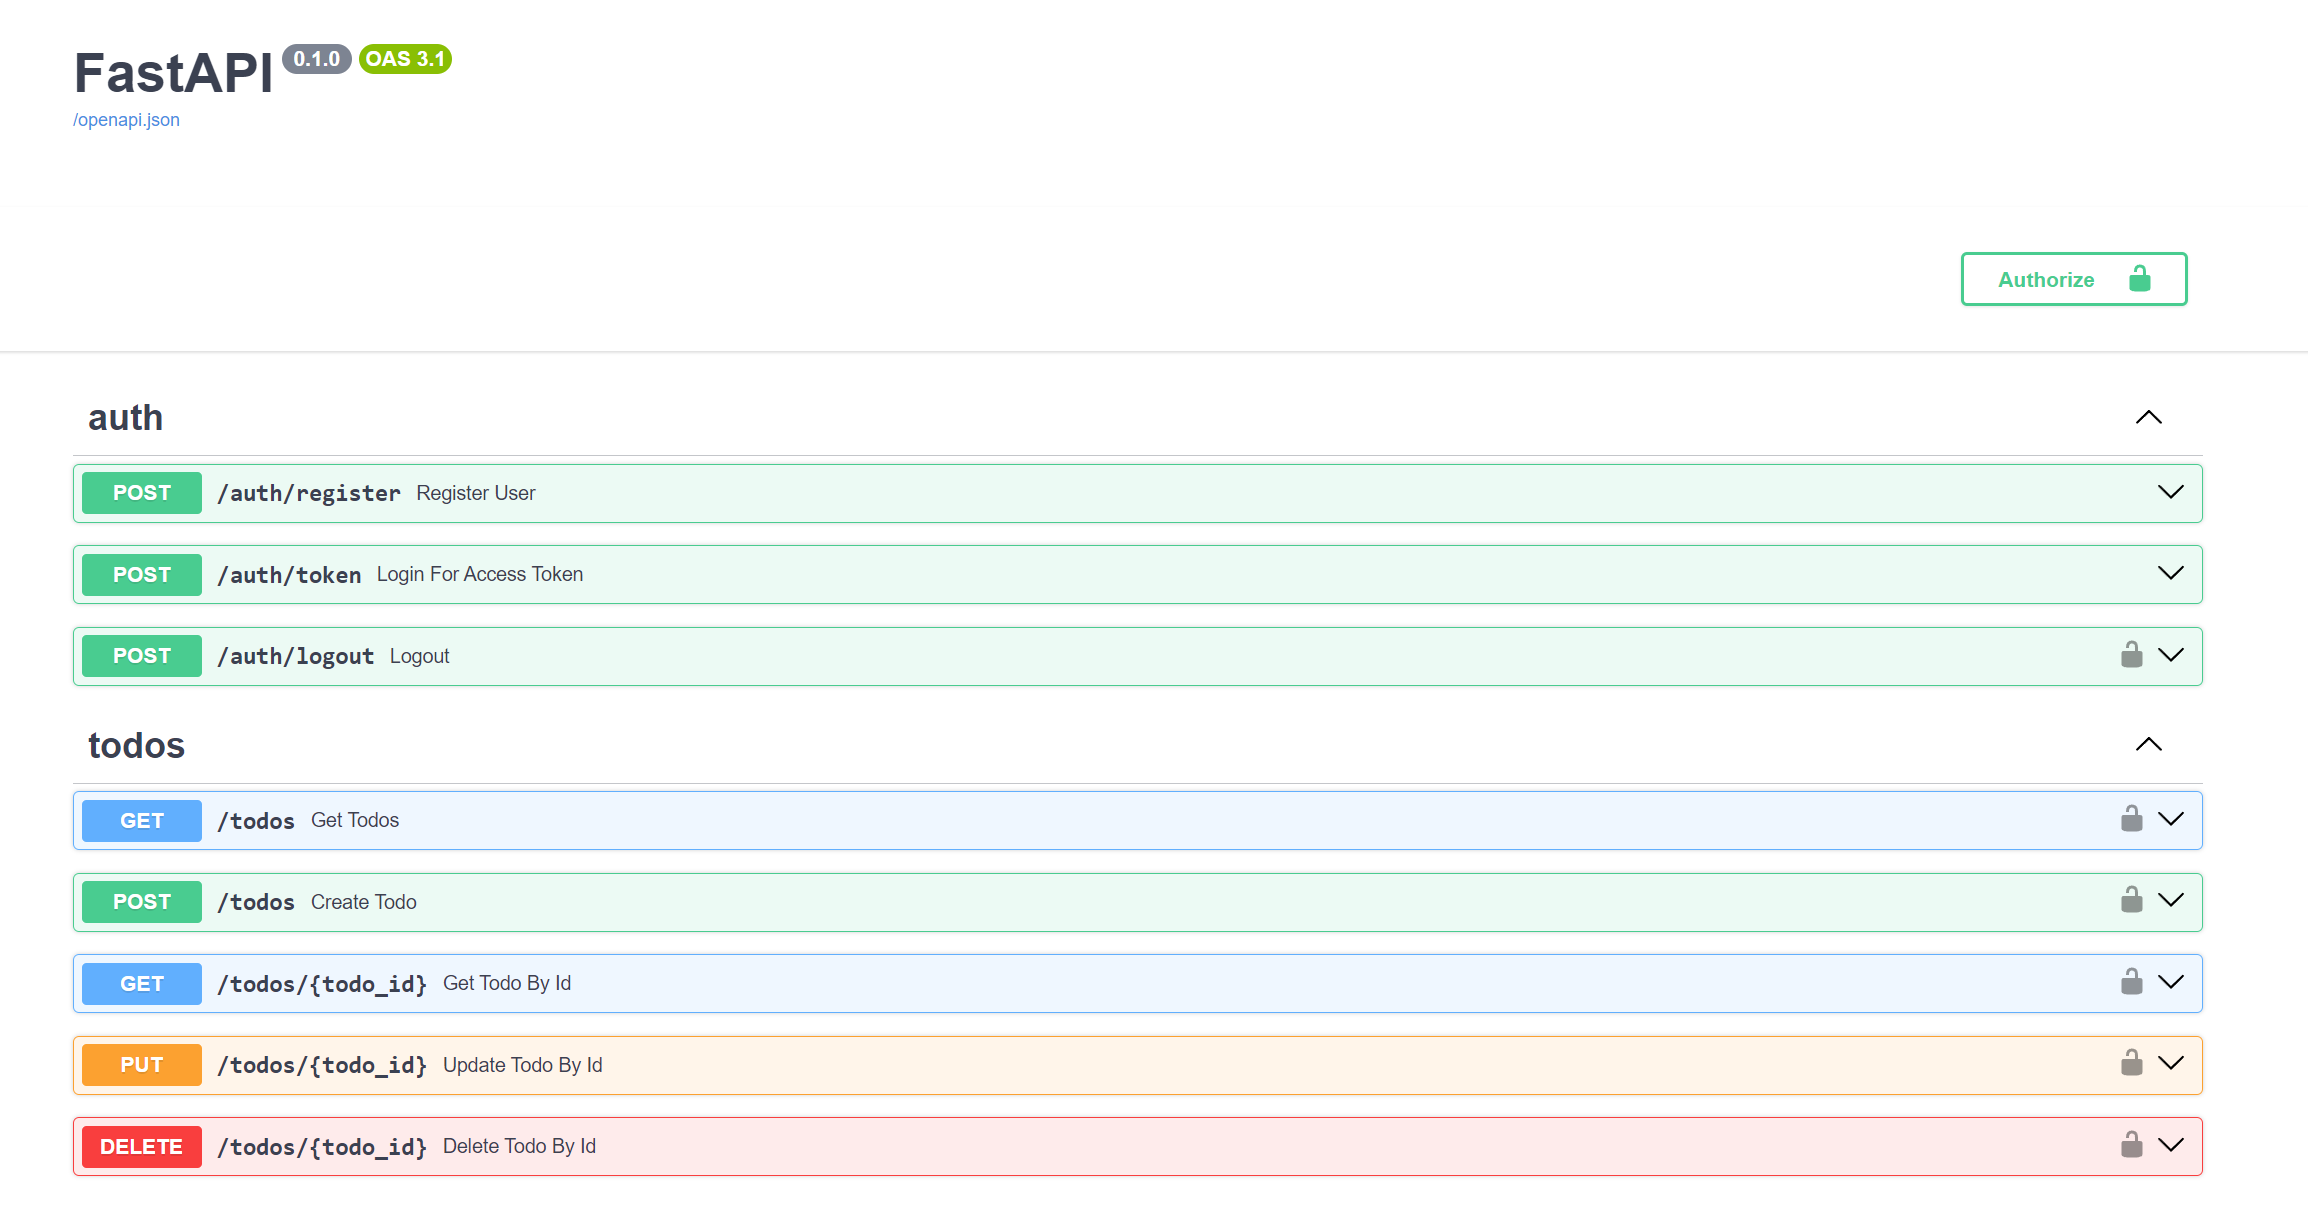
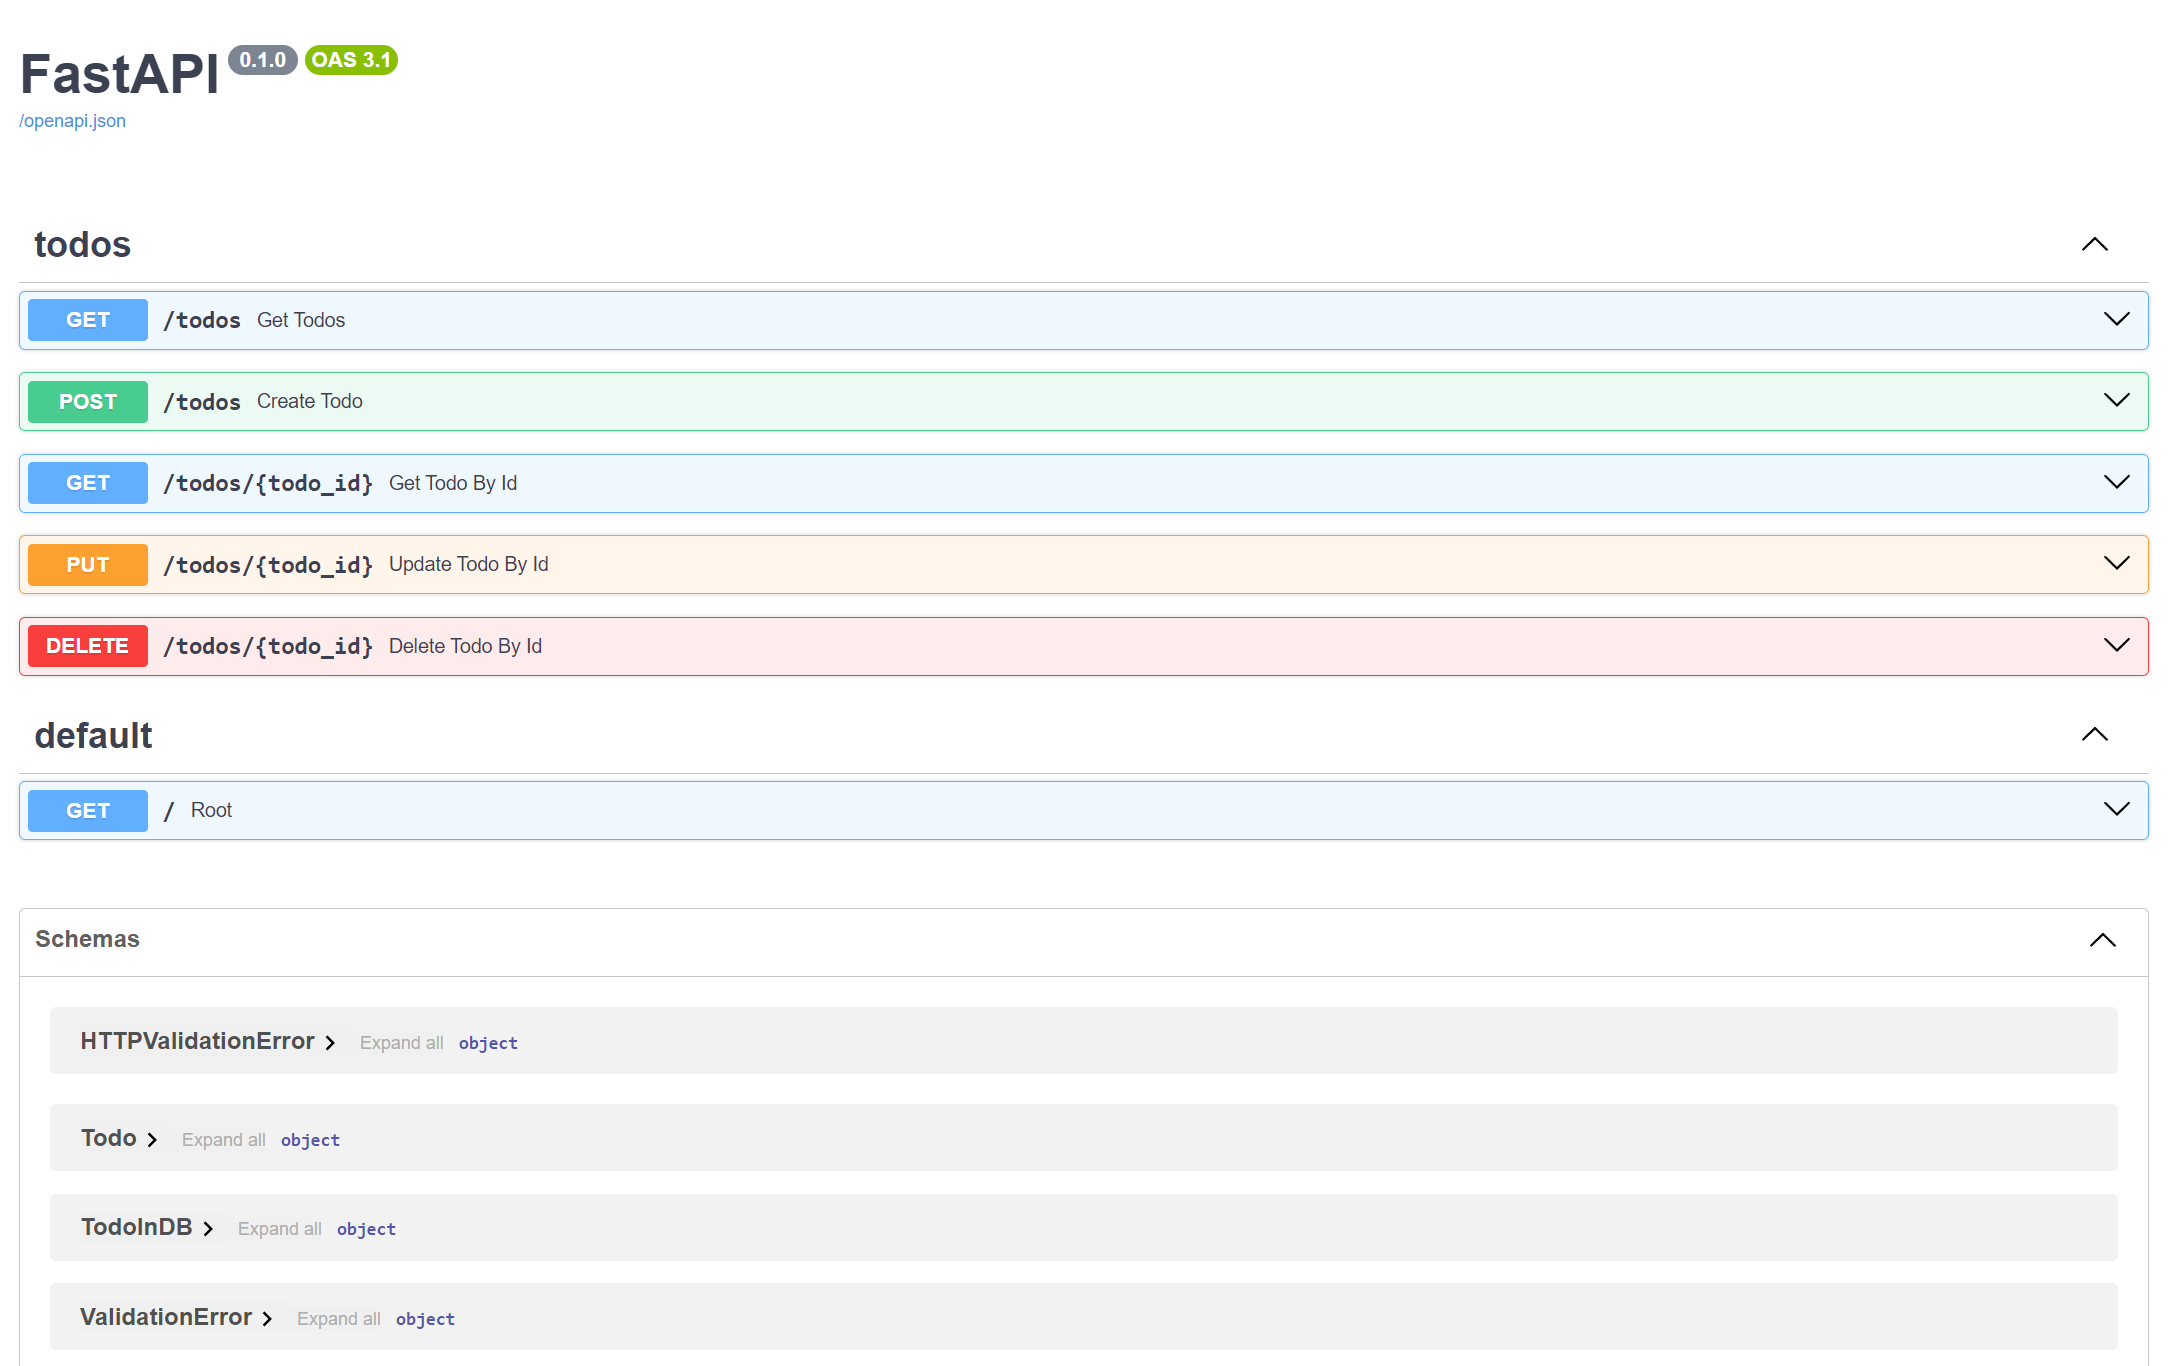
Implement only todo API

diff --git a/app/test_main.py b/app/test_main.py
@@ -5,56 +5,13 @@ from .main import app
 client = TestClient(app)
 
 
-# Helper function to create a user and get a token
-def create_user_and_get_token(username: str, password: str):
-    response = client.post(
-        "/auth/register", json={"username": username, "password": password}
-    )
-    assert response.status_code == 200
-    response = client.post(
-        "/auth/token", data={"username": username, "password": password}
-    )
-    assert response.status_code == 200
-    return response.json()["access_token"]
-
-
-# Test registration and login
-def test_register_and_login():
-    response = client.post(
-        "/auth/register", json={"username": "testuser", "password": "testpass"}
-    )
-    assert response.status_code == 200
-    assert response.json()["username"] == "testuser"
-
-    response = client.post(
-        "/auth/token", data={"username": "testuser", "password": "testpass"}
-    )
-    assert response.status_code == 200
-    assert "access_token" in response.json()
-
-
-# Test registration with existing username
-def test_register_existing_user():
-    client.post("/auth/register", json={"username": "testuser", "password": "testpass"})
-    response = client.post(
-        "/auth/register", json={"username": "testuser", "password": "testpass"}
-    )
-    assert response.status_code == 400
-    assert response.json() == {"detail": "Username already registered"}
-
-
 # Test todo routes with authentication
 def test_todo_routes():
-
-    token = create_user_and_get_token("testuser1", "testpass1")
-
-    headers = {"Authorization": f"Bearer {token}"}
 
     # Create a new todo
     response = client.post(
         "/todos",
         json={"text": "Buy milk", "completed": False},
-        headers=headers,
     )
 
     assert response.status_code == 201
@@ -65,12 +22,12 @@ def test_todo_routes():
     }
 
     # Get all todos
-    response = client.get("/todos", headers=headers)
+    response = client.get("/todos")
     assert response.status_code == 200
     assert len(response.json()) == 1
 
     # Get a specific todo by id
-    response = client.get("/todos/1", headers=headers)
+    response = client.get("/todos/1")
     assert response.status_code == 200
     assert response.json() == {
         "id": 1,
@@ -82,34 +39,16 @@ def test_todo_routes():
     response = client.put(
         "/todos/1",
         json={"id": 1, "text": "Buy bread", "completed": True},
-        headers=headers,
     )
     assert response.status_code == 200
     assert response.json() == {"id": 1, "text": "Buy bread", "completed": True}
 
     # Delete a todo
-    response = client.delete("/todos/1", headers=headers)
+    response = client.delete("/todos/1")
     assert response.status_code == 200
     assert response.json() == {"message": "Todo deleted"}
 
     # Check if the todo is deleted
-    response = client.get("/todos/1", headers=headers)
+    response = client.get("/todos/1")
     assert response.status_code == 404
     assert response.json() == {"detail": "Todo not found"}
-
-
-# Test logout
-def test_logout():
-    token = create_user_and_get_token("testuser2", "testpass2")
-
-    headers = {"Authorization": f"Bearer {token}"}
-
-    # Logout
-    response = client.post("/auth/logout", headers=headers)
-    assert response.status_code == 200
-    assert response.json() == {"message": "Logout successful"}
-
-    # Try to access a protected route with the blacklisted token
-    response = client.get("/todos", headers=headers)
-    assert response.status_code == 401
-    assert response.json() == {"detail": "Could not validate credentials"}

diff --git a/app/routes/todos.py b/app/routes/todos.py
@@ -1,9 +1,6 @@
 from fastapi import APIRouter, Depends, HTTPException, status
 from typing import List
 
-from app.dependencies import get_current_user
-from app.models.users import UserInDB
-
 from ..models.todos import Todo, TodoInDB
 from ..crud import todos as todos_crud
 
@@ -15,9 +12,7 @@ router = APIRouter(
 
 
 @router.get("", response_model=List[TodoInDB])
-async def get_todos(
-    current_user: UserInDB = Depends(get_current_user),
-) -> List[TodoInDB]:
+async def get_todos() -> List[TodoInDB]:
     """Retrieves all todo items.
 
     Returns:
@@ -33,7 +28,7 @@ async def get_todos(
     responses={404: {"description": "Todo not found"}},
 )
 async def get_todo_by_id(
-    todo_id: int, current_user: UserInDB = Depends(get_current_user)
+    todo_id: int,
 ) -> TodoInDB | dict[str, str]:
     """Fetches a todo item by its ID.
 
@@ -63,7 +58,7 @@ async def get_todo_by_id(
     },
 )
 async def create_todo(
-    todo: Todo, current_user: UserInDB = Depends(get_current_user)
+    todo: Todo,
 ) -> TodoInDB:
     """Creates a new todo item.
 
@@ -83,7 +78,8 @@ async def create_todo(
     responses={404: {"description": "Todo not found"}},
 )
 async def update_todo_by_id(
-    todo_id: int, todo: Todo, current_user: UserInDB = Depends(get_current_user)
+    todo_id: int,
+    todo: Todo,
 ) -> TodoInDB | dict[str, str]:
     """Updates a todo item by its ID.
 
@@ -111,7 +107,7 @@ async def update_todo_by_id(
     },
 )
 async def delete_todo_by_id(
-    todo_id: int, current_user: UserInDB = Depends(get_current_user)
+    todo_id: int,
 ) -> dict[str, str]:
     """Deletes a todo item by its ID.
 

diff --git a/app/main.py b/app/main.py
@@ -1,9 +1,8 @@
 from fastapi import FastAPI
-from .routes import todos, auth
+from .routes import todos
 
 app = FastAPI()
 
-app.include_router(auth.router)
 app.include_router(todos.router)
 
 

diff --git a/README.md b/README.md
@@ -1,9 +1,10 @@
 # Python FastAPI Starter
 
-Starter implementation of authentication and todo RESTful APIs in Python FastAPI.
+This branch includes a starter implementation of a todo API in Python FastAPI.
 
 Access other branches to find more modular implementations of authentication and todo APIs:
 
+- [main](https://github.com/afutofu/python-fastapi-starter): Auth & Todo API
 - [rest-auth](https://github.com/afutofu/python-fastapi-starter/tree/rest-auth): Auth API
 - [rest-todo](https://github.com/afutofu/python-fastapi-starter/tree/rest-todo): Todo API
 
@@ -18,9 +19,6 @@ Access other branches to find more modular implementations of authentication and
 
 ## Features
 
-- User registration
-- User login
-- User logout
 - Create a todo
 - Get all todos
 - Get a todo by ID
@@ -28,12 +26,6 @@ Access other branches to find more modular implementations of authentication and
 - Delete a todo by ID
 
 ## Endpoints
-
-### Authentication
-
-- `POST /auth/register` - Register a new user
-- `POST /auth/token` - Login a user
-- `POST /auth/logout` - Logout a user
 
 ### Todo
 
@@ -66,27 +58,6 @@ Access other branches to find more modular implementations of authentication and
    ```
 
 ## Usage
-
-### Authentication
-
-Register a user:
-
-```bash
-curl -X POST http://localhost:8000/auth/register -H "Content-Type: application/json" -d '{"username":"testuser", "password":"password123"}'
-```
-
-Login:
-
-```bash
-curl -X POST http://localhost:8000/auth/login -H "Content-Type: application/json" -d '{"username":"testuser", "password":"password123"}'
-
-```
-
-Logout user:
-
-```bash
-curl -X POST http://localhost:8000/auth/logout
-```
 
 ### Todo
 
